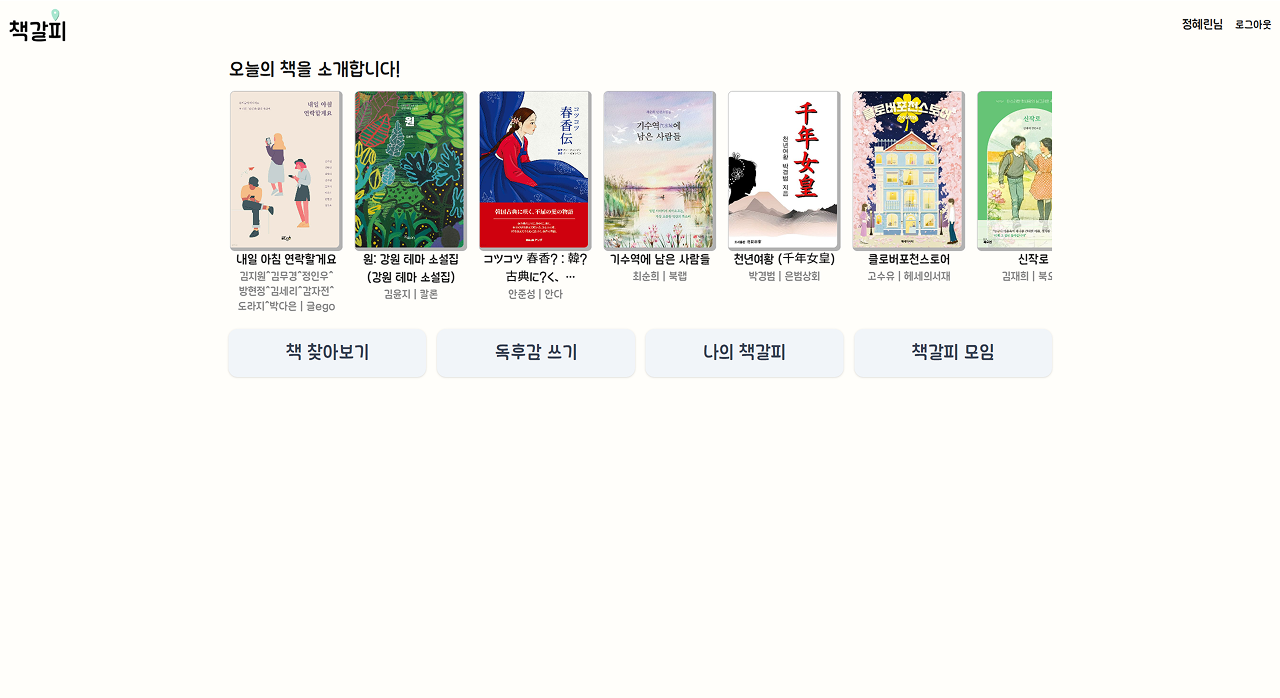
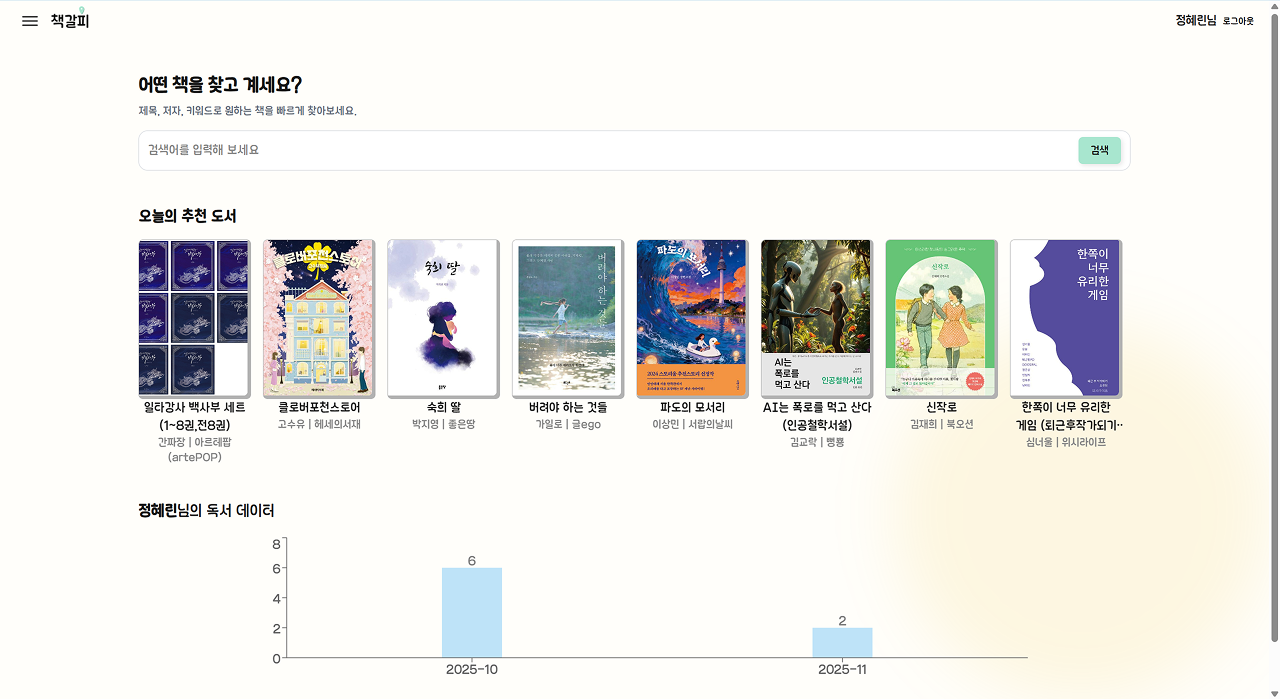
content:내용 추가

diff --git a/src/components/unit/project/bookPath.tsx b/src/components/unit/project/bookPath.tsx
@@ -77,9 +77,9 @@ export function BookPath() {
                     {/* 각 기능 블록 */}
                     {[
                         {
-                            img: '/image/book_path/img_main.png',
+                            img: '/image/book_path/img_main_ver2.png',
                             title: '메인 화면',
-                            desc: ["최신 등록 기준 '오늘의 책 추천' 기능을 Embla Carousel 라이브러리를 활용한 슬라이드 컴포넌트로 구현"],
+                            desc: ["최신 등록 기준 '오늘의 책 추천' 기능을 Embla Carousel 라이브러리를 활용한 슬라이드 컴포넌트로 구현", '로그인한 사용자 기준으로 월별 독서량을 Recharts 플러그인으로 구현', '검색어를 router query를 이용하여 검색 페이지로 이동한 뒤 결과가 보여지게 구현', '햄버거 버튼을 이용한 메뉴바 구현'],
                         },
                         {
                             img: '/image/book_path/img03.png',
@@ -131,6 +131,26 @@ export function BookPath() {
                         </div>
                     ))}
                 </div>
+            </div>
+
+            {/* 사용자 피드백 반영 내용 */}
+            <div className="space-y-2">
+                <p className="text-[#519AD6] font-bold md:text-xl text-lg">사용자 피드백 반영 내용</p>
+                <div className="flex items-center justify-between">
+                    <img className="w-[47%] mb-2 rounded-md shadow-[2px_2px_6px_rgba(0,0,0,0.3)]" src="/image/book_path/img_main.png" alt="메인 화면 변경 전" />
+                    <span className="text-xl">➡</span>
+                    <img className="w-[47%] mb-2 rounded-md shadow-[2px_2px_6px_rgba(0,0,0,0.3)]" src="/image/book_path/img_main_ver2.png" alt="메인 화면 변경 후" />
+                </div>
+                <ul>
+                    <li className="flex gap-2">
+                        <span className="flex-shrink-0 inline-block w-[4px] h-[4px] bg-black rounded-full md:mt-3 mt-2"></span>
+                        주요 기능을 한눈에 파악할 수 있도록 전체 메뉴 추가
+                    </li>
+                    <li className="flex  gap-2">
+                        <span className="flex-shrink-0 inline-block w-[4px] h-[4px] bg-black rounded-full md:mt-3 mt-2"></span>
+                        콘텐츠 추가 — 사용자 월별 독후감 작성 양, 메인 페이지 책 검색 기능 제공
+                    </li>
+                </ul>
             </div>
 
             {/* 오류 해결 / 향후 계획 */}

diff --git a/src/components/unit/project/travel_diary.tsx b/src/components/unit/project/travel_diary.tsx
@@ -169,7 +169,7 @@ export function Travel_diary() {
                 <p className="text-[#519AD6] font-bold md:text-xl text-lg">사용자 피드백 반영 내용</p>
                 <div className="flex items-center justify-between">
                     <img className="w-[47%] mb-2 rounded-md shadow-[2px_2px_6px_rgba(0,0,0,0.3)]" src="/image/travel_diary/img_main.png" alt="메인 화면 변경 전" />
-                    <span className="text-2xl">➡</span>
+                    <span className="text-xl">➡</span>
                     <img className="w-[47%] mb-2 rounded-md shadow-[2px_2px_6px_rgba(0,0,0,0.3)]" src="/image/travel_diary/img_main_v2.png" alt="메인 화면 변경 후" />
                 </div>
                 <ul>
@@ -183,7 +183,7 @@ export function Travel_diary() {
                     </li>
                     <li className="flex gap-2">
                         <span className="flex-shrink-0 inline-block w-[4px] h-[4px] bg-black rounded-full md:mt-3 mt-2"></span>
-                        주요 기능을 한눈에 파악할 수 있도록 전체 메뉴 구조
+                        주요 기능을 한눈에 파악할 수 있도록 전체 메뉴 구조 추가
                     </li>
                     <li className="flex  gap-2">
                         <span className="flex-shrink-0 inline-block w-[4px] h-[4px] bg-black rounded-full md:mt-3 mt-2"></span>
